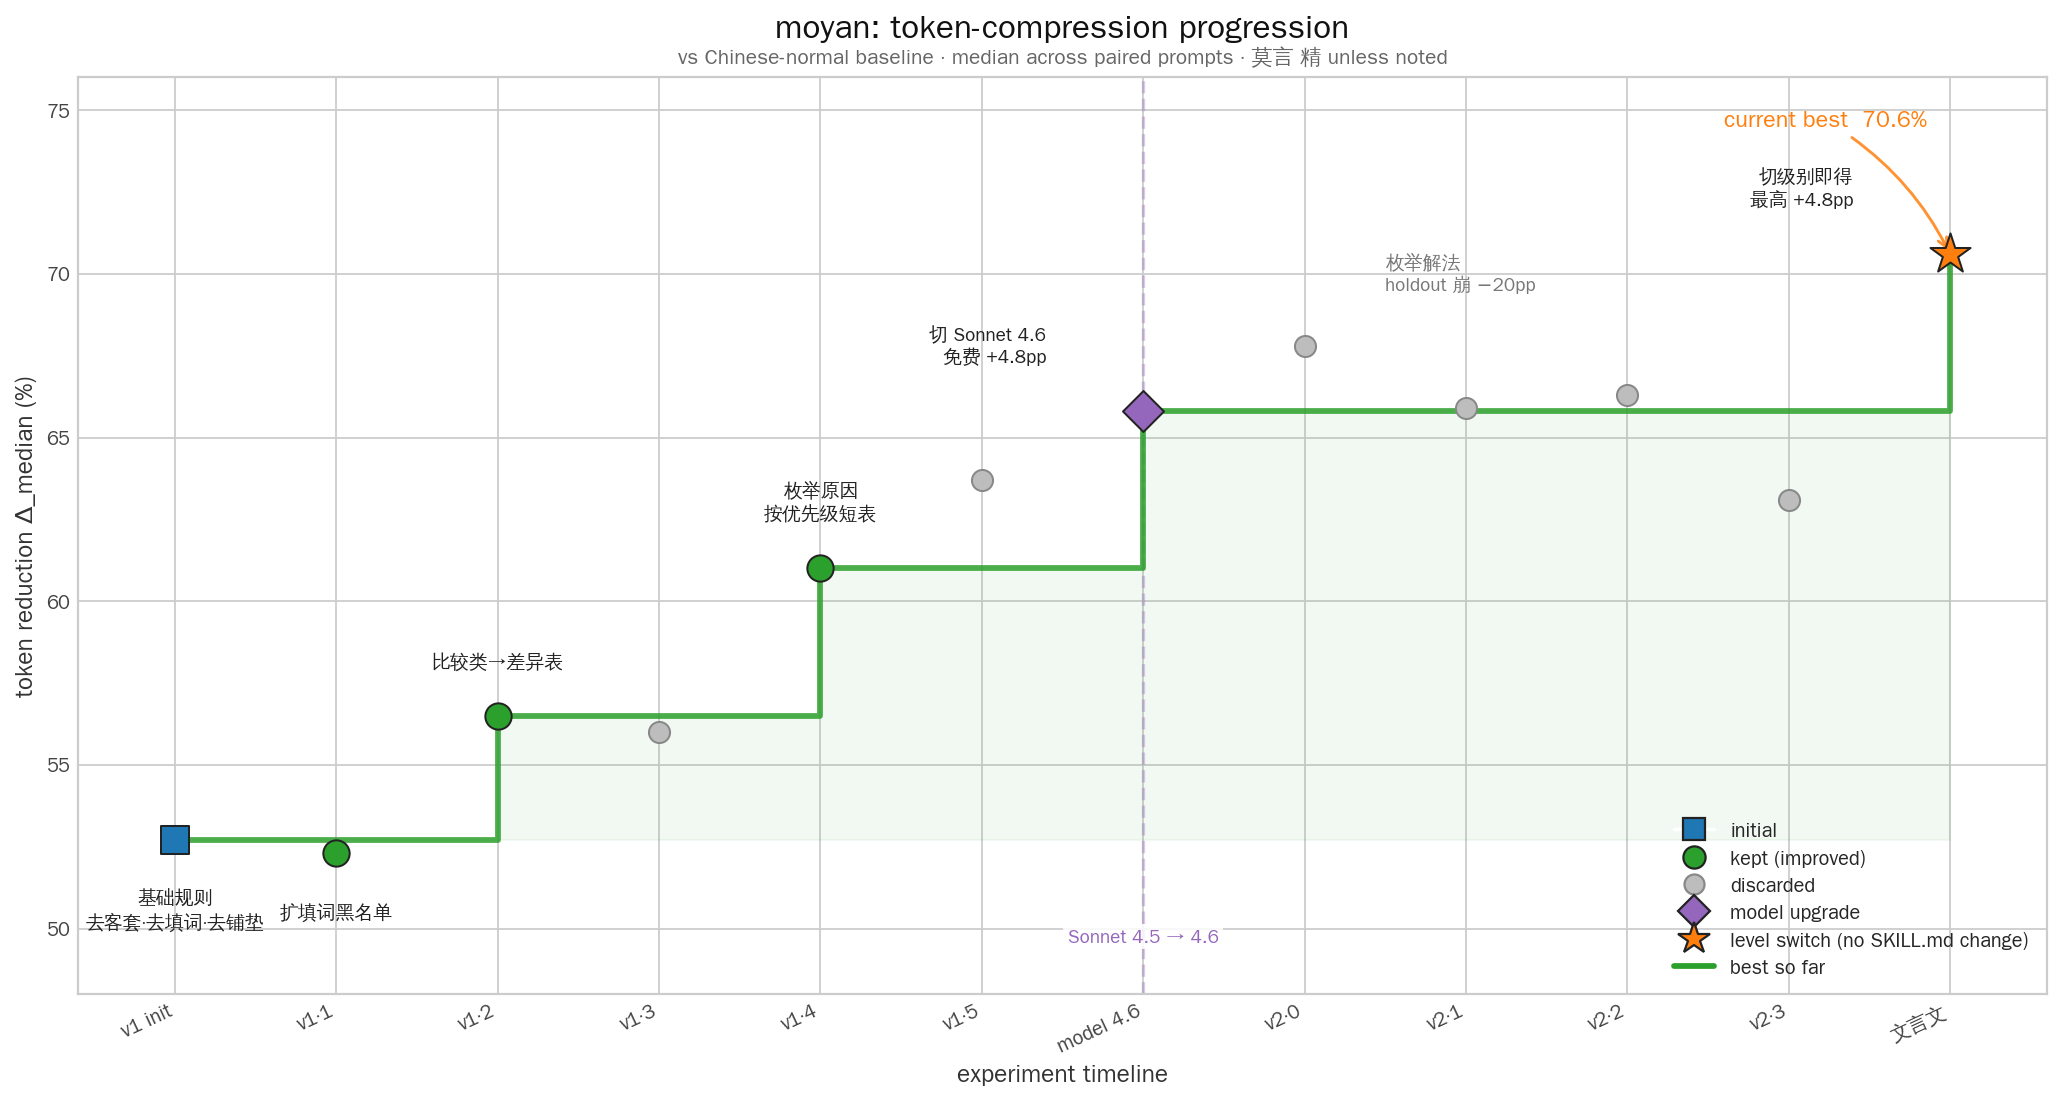
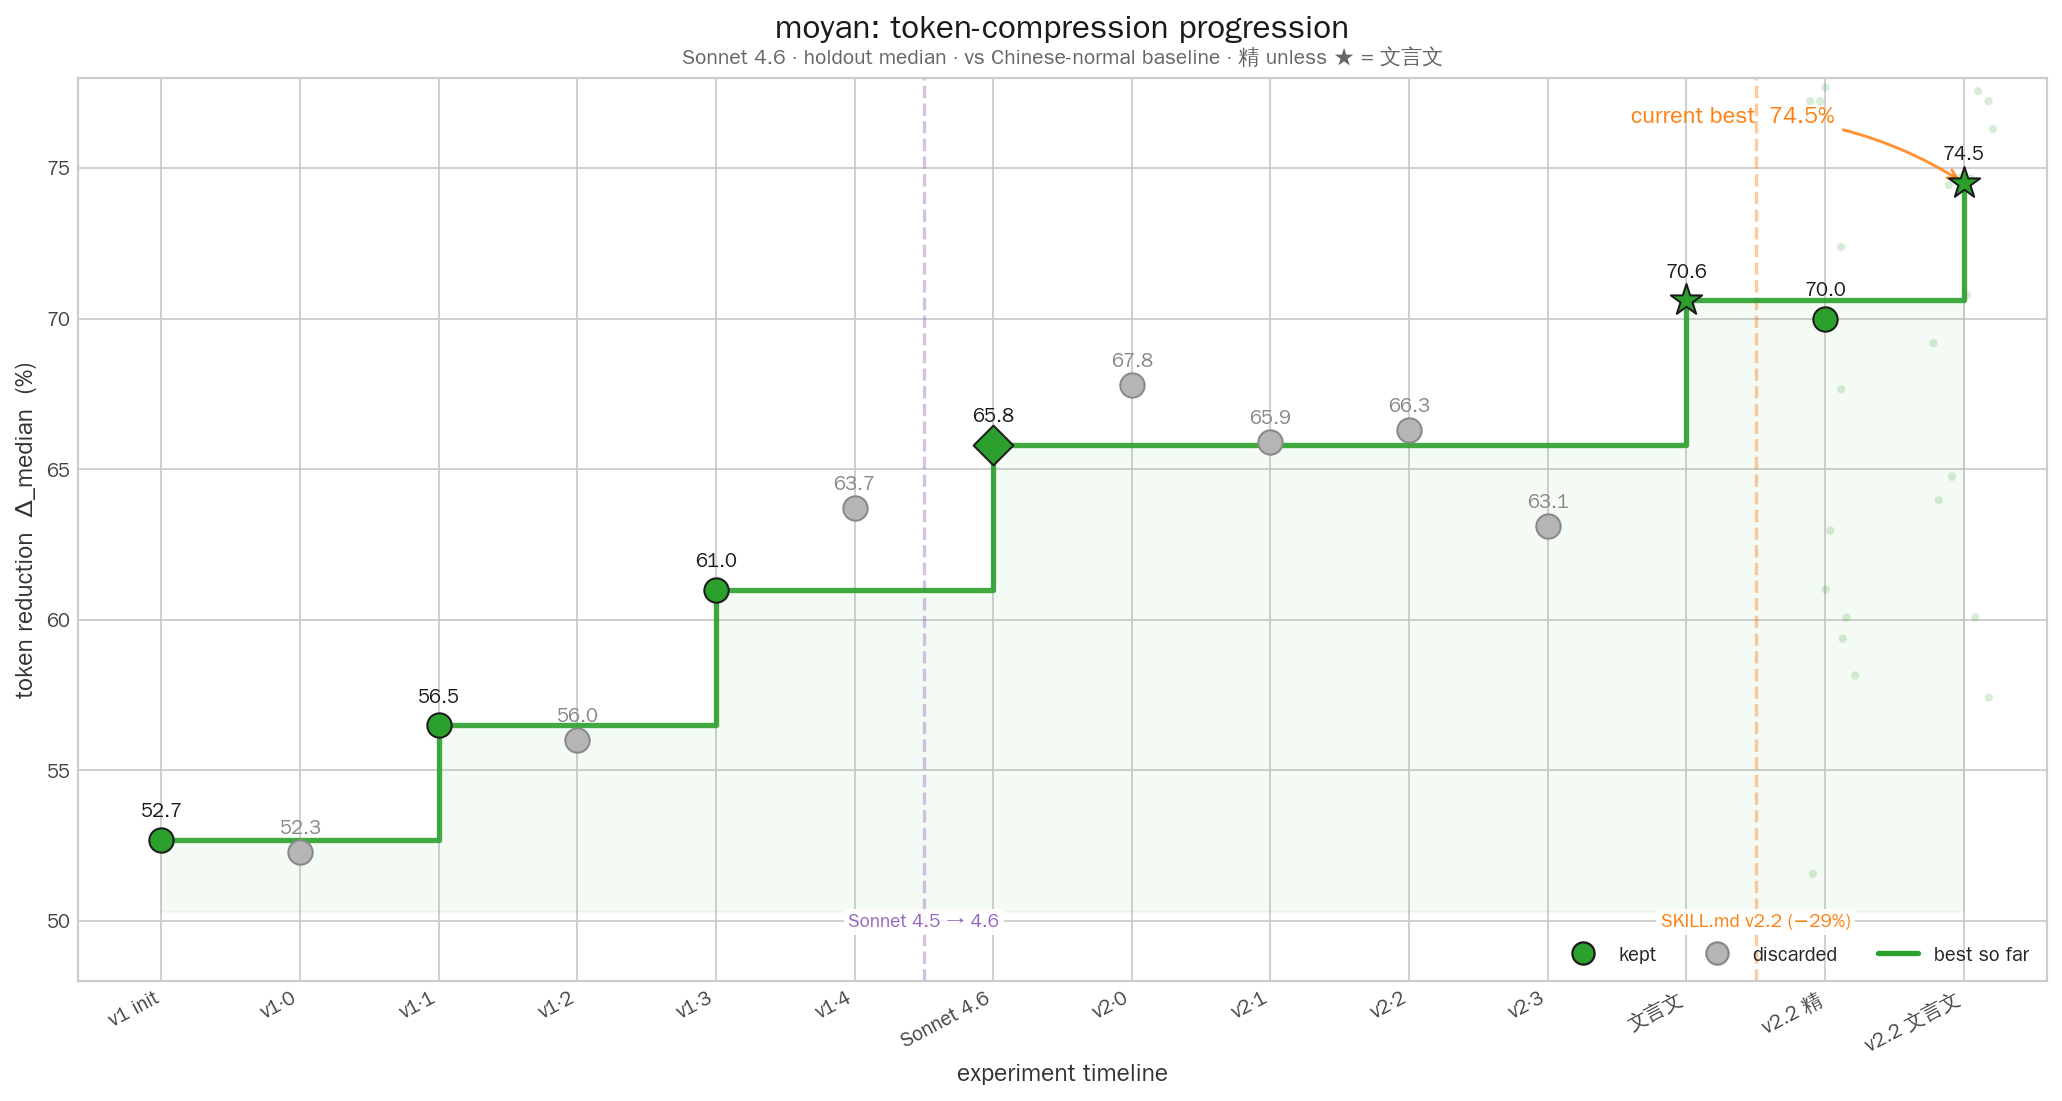
docs: refresh README + progression chart with v2.2 / Track B+C
README:
- Update holdout numbers to 71-prompt Sonnet 4.6 run (简 68% / 精 70% / 文言文 75%)
- Add Track B+C narrative: Haiku collapse, judge κ=0.21, SKILL.md −29% trim

plot.py:
- Extend timeline with v2.2 精 (70.0) and v2.2 文言文 (74.5) entries
- Number label above every dot; shrink legend from 5 items to 3
- Add per-prompt scatter cloud for current-best entries (from local traces)
- Dual dividers: Sonnet 4.5→4.6 and SKILL.md v2.2 (−29%)

diff --git a/benchmark/plot.py b/benchmark/plot.py
@@ -1,176 +1,190 @@
 """Render docs/progression.png — moyan token-compression progression.
 
-Karpathy/autoresearch-style: scatter of every attempt, kept points colored,
-discards gray, best-so-far step line, annotations on milestones.
+Timeline of every SKILL.md iteration + level discoveries that moved the needle.
+Each point: Δ_median (output-token reduction vs B_zh_normal) on the benchmark.
+Big colored dot = kept/discovered. Gray dot = discarded. Number above every dot.
+Step line = best-so-far. Per-prompt scatter cloud under current-best entries
+so you can see the underlying distribution, not just the headline median.
 
-Data is hardcoded here (small, hand-curated from RESULTS.md + RESULTS_v2.md +
-results.tsv) — this is a doc generator, not a live dashboard.
-
-Usage:
+Data is hand-curated from RESULTS{,_v2}.md + git log + local traces.
+Regenerate after any new iteration:
     pip install matplotlib
     python benchmark/plot.py
 """
 from __future__ import annotations
 
+import json
 from pathlib import Path
 
 import matplotlib.pyplot as plt
-import matplotlib.patches as mpatches
 
-# Chronological timeline. delta = Δ_median (output-token reduction vs B_zh_normal).
-# All values for moyan 精 (default), except the final 文言文 entry.
+BENCH = Path(__file__).resolve().parent
+BASELINE_GROUP = "B_zh_normal"
+
+# --- timeline ---------------------------------------------------------------
+# Δ = moyan 精 holdout Δ_median vs B_zh_normal (same prompts, same metric).
+# The final entry flips to 文言文 — kept in the headline because it's the
+# mode we now recommend for debug/explain and it's the current SOTA.
 EVENTS = [
-    # ----- v1 era: Sonnet 4.5, hand + autoskill iterations -----
-    dict(idx=0,  delta=52.7, status="start",   label="v1 init",
-         note="基础规则\n去客套·去填词·去铺垫"),
-    dict(idx=1,  delta=52.3, status="keep",    label="v1·1",
-         note="扩填词黑名单"),
-    dict(idx=2,  delta=56.5, status="keep",    label="v1·2",
-         note="比较类→差异表"),
-    dict(idx=3,  delta=56.0, status="discard", label="v1·3"),
-    dict(idx=4,  delta=61.0, status="keep",    label="v1·4",
-         note="枚举原因\n按优先级短表"),
-    dict(idx=5,  delta=63.7, status="discard", label="v1·5"),
-    # ----- transition: model upgrade (no SKILL.md change) -----
-    dict(idx=6,  delta=65.8, status="upgrade", label="model 4.6",
-         note="切 Sonnet 4.6\n免费 +4.8pp"),
-    # ----- v2 era: Sonnet 4.6, autoskill iters (all discarded) -----
-    dict(idx=7,  delta=67.8, status="discard", label="v2·0",
-         note="枚举解法\nholdout 崩 −20pp"),
-    dict(idx=8,  delta=65.9, status="discard", label="v2·1"),
-    dict(idx=9,  delta=66.3, status="discard", label="v2·2"),
-    dict(idx=10, delta=63.1, status="discard", label="v2·3"),
-    # ----- discovery: 文言文 level (no SKILL.md change, just measured) -----
-    dict(idx=11, delta=70.6, status="discover", label="文言文",
-         note="切级别即得\n最高 +4.8pp"),
+    # v1 era — Sonnet 4.5, hand + autoskill iterations on 精
+    dict(x=0,  d=52.7, keep=True,  tag="v1 init"),
+    dict(x=1,  d=52.3, keep=False, tag="v1·0"),
+    dict(x=2,  d=56.5, keep=True,  tag="v1·1"),
+    dict(x=3,  d=56.0, keep=False, tag="v1·2"),
+    dict(x=4,  d=61.0, keep=True,  tag="v1·3"),
+    dict(x=5,  d=63.7, keep=False, tag="v1·4"),
+    # model upgrade — no SKILL.md change
+    dict(x=6,  d=65.8, keep=True,  tag="Sonnet 4.6", marker="D"),
+    # v2 era — Sonnet 4.6, autoskill iters (all discarded — plateau)
+    dict(x=7,  d=67.8, keep=False, tag="v2·0"),
+    dict(x=8,  d=65.9, keep=False, tag="v2·1"),
+    dict(x=9,  d=66.3, keep=False, tag="v2·2"),
+    dict(x=10, d=63.1, keep=False, tag="v2·3"),
+    # discovery — level switch (no rule change), Sonnet 4.6 holdout 文言文
+    dict(x=11, d=70.6, keep=True,  tag="文言文", marker="*"),
+    # Track C — SKILL.md v2.2 trim + quantitative level targets
+    dict(x=12, d=70.0, keep=True,  tag="v2.2 精"),
+    dict(x=13, d=74.5, keep=True,  tag="v2.2 文言文", marker="*"),
 ]
 
-COLORS = {
-    "start":    "#1f77b4",  # blue
-    "keep":     "#2ca02c",  # green
-    "discard":  "#bdbdbd",  # gray
-    "upgrade":  "#9467bd",  # purple
-    "discover": "#ff7f0e",  # orange
-}
-MARKERS = {
-    "start": "s", "keep": "o", "discard": "o",
-    "upgrade": "D", "discover": "*",
-}
-SIZES = {
-    "start": 160, "keep": 140, "discard": 90,
-    "upgrade": 170, "discover": 360,
+# Per-prompt Δ cloud — drawn as a faint vertical strip under the median dot
+# for entries where we still have local traces. Gives the viewer a sense of
+# the distribution behind every headline median.
+def load_cloud(run_id: str, group: str) -> list[float]:
+    d = BENCH / "traces" / run_id
+    if not d.exists():
+        return []
+    totals_m: dict[str, int] = {}
+    totals_b: dict[str, int] = {}
+    for p in d.glob("*.json"):
+        if "_judgments" in p.parts:
+            continue
+        t = json.loads(p.read_text(encoding="utf-8"))
+        if t.get("error"):
+            continue
+        pid = t["prompt_id"]
+        out = t["usage"]["output_tokens"]
+        if t["group"] == group:
+            totals_m[pid] = totals_m.get(pid, 0) + out
+        elif t["group"] == BASELINE_GROUP:
+            totals_b[pid] = totals_b.get(pid, 0) + out
+    deltas = []
+    for pid, m in totals_m.items():
+        b = totals_b.get(pid)
+        if not b:
+            continue
+        deltas.append((1 - m / b) * 100)
+    return deltas
+
+
+CLOUDS = {
+    12: load_cloud("v2-sonnet-v22", "D_moyan_jing"),
+    13: load_cloud("v2-sonnet-v22", "E_moyan_wenyan"),
 }
 
 
 def best_so_far(events):
-    best, out = -float("inf"), []
+    best, out = -1e9, []
     for e in events:
-        if e["status"] in ("keep", "start", "upgrade", "discover"):
-            best = max(best, e["delta"])
+        if e.get("keep"):
+            best = max(best, e["d"])
         out.append(best)
     return out
 
 
 def render(out_path: Path):
     plt.style.use("seaborn-v0_8-whitegrid")
-    # Pick first available CJK-capable font
     import matplotlib.font_manager as fm
     cjk_candidates = ["Noto Sans CJK SC", "Noto Sans CJK", "WenQuanYi Zen Hei",
                       "PingFang SC", "Heiti TC", "SimHei", "Source Han Sans SC"]
-    available = {f.name for f in fm.fontManager.ttflist}
-    cjk = next((c for c in cjk_candidates if c in available), None)
+    avail = {f.name for f in fm.fontManager.ttflist}
+    cjk = next((c for c in cjk_candidates if c in avail), None)
     plt.rcParams["font.family"] = [cjk, "DejaVu Sans", "sans-serif"] if cjk else ["DejaVu Sans"]
     plt.rcParams["axes.unicode_minus"] = False
 
     fig, ax = plt.subplots(figsize=(13, 7))
 
+    GREEN = "#2ca02c"
+    GRAY  = "#b5b5b5"
+    DARK  = "#1a1a1a"
+
+    xs = [e["x"] for e in EVENTS]
     bsf = best_so_far(EVENTS)
-    xs = [e["idx"] for e in EVENTS]
 
-    # Best-so-far step line (the headline arc)
-    ax.step(xs, bsf, where="post", color="#2ca02c", linewidth=2.6,
-            alpha=0.85, zorder=2, label="best so far")
-    ax.fill_between(xs, [52.7] * len(xs), bsf, step="post",
-                    color="#2ca02c", alpha=0.06, zorder=1)
+    # 1. best-so-far step line
+    ax.step(xs, bsf, where="post", color=GREEN, linewidth=2.4,
+            alpha=0.9, zorder=2)
+    ax.fill_between(xs, [min(e["d"] for e in EVENTS) - 2] * len(xs), bsf,
+                    step="post", color=GREEN, alpha=0.05, zorder=1)
 
-    # Scatter every attempt
+    # 2. per-prompt scatter cloud (faint, under the headline dot)
+    import random
+    rng = random.Random(0)
+    for x, cloud in CLOUDS.items():
+        jx = [x + (rng.random() - 0.5) * 0.45 for _ in cloud]
+        ax.scatter(jx, cloud, s=14, color=GREEN, alpha=0.18,
+                   edgecolor="none", zorder=3)
+
+    # 3. headline dot for every iteration
     for e in EVENTS:
-        s = e["status"]
-        edge = "#222" if s != "discard" else "#888"
-        ax.scatter(e["idx"], e["delta"], c=COLORS[s], marker=MARKERS[s],
-                   s=SIZES[s], edgecolor=edge, linewidth=0.9, zorder=4)
+        color = GREEN if e["keep"] else GRAY
+        marker = e.get("marker", "o")
+        size = 220 if marker == "*" else (160 if marker == "D" else 120)
+        ax.scatter(e["x"], e["d"], c=color, marker=marker, s=size,
+                   edgecolor=DARK if e["keep"] else "#888",
+                   linewidth=0.9, zorder=5)
+        # number above every dot
+        ax.annotate(f"{e['d']:.1f}",
+                    xy=(e["x"], e["d"]),
+                    xytext=(0, 9 if e["keep"] else 7),
+                    textcoords="offset points",
+                    ha="center", va="bottom",
+                    fontsize=9,
+                    color=DARK if e["keep"] else "#888",
+                    weight="semibold" if e["keep"] else "normal")
 
-    # Milestone annotations — positions hand-tuned to avoid overlaps
-    annot_layout = {
-        0:  dict(dx=0.0,  dy=-1.5, va="top",    ha="center"),  # v1 init below
-        1:  dict(dx=0.0,  dy=-1.5, va="top",    ha="center"),  # v1·1 below
-        2:  dict(dx=0.0,  dy=+1.4, va="bottom", ha="center"),  # v1·2 above
-        4:  dict(dx=0.0,  dy=+1.4, va="bottom", ha="center"),  # v1·4 above
-        5:  dict(dx=+0.8, dy=+1.6, va="bottom", ha="left"),    # v1·5 up-right (discard, but offset)
-        6:  dict(dx=-0.6, dy=+1.4, va="bottom", ha="right"),   # upgrade up-left
-        7:  dict(dx=+0.5, dy=+1.6, va="bottom", ha="left"),    # v2·0 up-right
-        11: dict(dx=-0.6, dy=+1.4, va="bottom", ha="right"),   # 文言文 up-left
-    }
-    for e in EVENTS:
-        if "note" not in e:
-            continue
-        lay = annot_layout.get(e["idx"], dict(dx=0, dy=1.4, va="bottom", ha="center"))
-        s = e["status"]
-        ax.annotate(
-            e["note"],
-            xy=(e["idx"], e["delta"]),
-            xytext=(e["idx"] + lay["dx"], e["delta"] + lay["dy"]),
-            textcoords="data",
-            fontsize=8.5,
-            ha=lay["ha"], va=lay["va"],
-            color="#222" if s != "discard" else "#777",
-            linespacing=1.25,
-        )
+    # 4. model-switch + track dividers
+    for x, text, color in [
+        (5.5, "Sonnet 4.5 → 4.6", "#9467bd"),
+        (11.5, "SKILL.md v2.2 (−29%)", "#ff7f0e"),
+    ]:
+        ax.axvline(x=x, color=color, linestyle="--", alpha=0.4, zorder=1)
+        ax.text(x, 49.7, text, color=color, fontsize=8.5,
+                ha="center", va="bottom",
+                bbox=dict(facecolor="white", edgecolor="none", alpha=0.9, pad=2))
 
-    # Model-switch divider
-    ax.axvline(x=6, color="#9467bd", linestyle="--", alpha=0.35, zorder=1)
-    ax.text(6, 49.5, "Sonnet 4.5 → 4.6", color="#9467bd",
-            fontsize=8.5, ha="center", va="bottom",
-            bbox=dict(facecolor="white", edgecolor="none", alpha=0.85, pad=2))
-
-    # Axes
+    # 5. axes, title
     ax.set_xlabel("experiment timeline", fontsize=11, color="#333")
-    ax.set_ylabel("token reduction Δ_median (%)", fontsize=11, color="#333")
+    ax.set_ylabel("token reduction  Δ_median  (%)", fontsize=11, color="#333")
     ax.set_title("moyan: token-compression progression",
-                 fontsize=15, pad=18, color="#111", weight="bold")
+                 fontsize=15, pad=18, color=DARK, weight="bold")
     ax.text(0.5, 1.015,
-            "vs Chinese-normal baseline · median across paired prompts · 莫言 精 unless noted",
+            "Sonnet 4.6 · holdout median · vs Chinese-normal baseline · 精 unless ★ = 文言文",
             transform=ax.transAxes, ha="center", fontsize=9.5, color="#666")
 
     ax.set_xticks(xs)
-    ax.set_xticklabels([e["label"] for e in EVENTS], rotation=25, ha="right",
+    ax.set_xticklabels([e["tag"] for e in EVENTS], rotation=28, ha="right",
                        fontsize=9, color="#444")
-    ax.set_ylim(48, 76)
-    ax.set_xlim(-0.6, 11.6)
+    ax.set_ylim(48, 78)
+    ax.set_xlim(-0.6, len(EVENTS) - 0.4)
     ax.tick_params(axis="y", labelcolor="#444", labelsize=9)
 
-    # Custom legend
+    # 6. minimal legend — 3 items only
     handles = [
-        plt.Line2D([], [], marker="s", color="w", markerfacecolor=COLORS["start"],
-                   markeredgecolor="#222", markersize=10, label="initial"),
-        plt.Line2D([], [], marker="o", color="w", markerfacecolor=COLORS["keep"],
-                   markeredgecolor="#222", markersize=10, label="kept (improved)"),
-        plt.Line2D([], [], marker="o", color="w", markerfacecolor=COLORS["discard"],
-                   markeredgecolor="#888", markersize=9, label="discarded"),
-        plt.Line2D([], [], marker="D", color="w", markerfacecolor=COLORS["upgrade"],
-                   markeredgecolor="#222", markersize=10, label="model upgrade"),
-        plt.Line2D([], [], marker="*", color="w", markerfacecolor=COLORS["discover"],
-                   markeredgecolor="#222", markersize=15,
-                   label="level switch (no SKILL.md change)"),
-        plt.Line2D([], [], color="#2ca02c", linewidth=2.6, label="best so far"),
+        plt.Line2D([], [], marker="o", color="w", markerfacecolor=GREEN,
+                   markeredgecolor=DARK, markersize=10, label="kept"),
+        plt.Line2D([], [], marker="o", color="w", markerfacecolor=GRAY,
+                   markeredgecolor="#888", markersize=10, label="discarded"),
+        plt.Line2D([], [], color=GREEN, linewidth=2.4, label="best so far"),
     ]
     ax.legend(handles=handles, loc="lower right", fontsize=9,
-              framealpha=0.95, edgecolor="#ddd")
+              framealpha=0.95, edgecolor="#ddd", ncol=3)
 
-    # "Current best" callout pointing at the 文言文 star
-    ax.annotate(f"current best  {EVENTS[-1]['delta']}%",
-                xy=(11, EVENTS[-1]["delta"]),
-                xytext=(9.6, 74.5),
+    # 7. current-best callout
+    best = EVENTS[-1]
+    ax.annotate(f"current best  {best['d']:.1f}%",
+                xy=(best["x"], best["d"]),
+                xytext=(best["x"] - 2.4, 76.5),
                 fontsize=10.5, color="#ff7f0e", weight="bold", ha="left",
                 arrowprops=dict(arrowstyle="->", color="#ff7f0e",
                                 lw=1.3, alpha=0.85,
@@ -183,5 +197,4 @@ def render(out_path: Path):
 
 
 if __name__ == "__main__":
-    out = Path(__file__).resolve().parent.parent / "docs" / "progression.png"
-    render(out)
+    render(BENCH.parent / "docs" / "progression.png")

diff --git a/README.md b/README.md
@@ -15,17 +15,17 @@
 | 精 | 三大常因：WHERE 无索引 → 全表扫描、执行计划走错索引、JOIN 顺序差。先 `EXPLAIN`。 |
 | 文言文 | 查询愈慢，多缘全表之扫。先以 `EXPLAIN` 察其执行之道，加索引于 `WHERE` 之列，则速矣。 |
 
-在 52 条编程问答上用 Sonnet 4.6 测了一轮，对比中文 normal 回答，output token 能省这么多：
+在 71 条编程问答上用 Sonnet 4.6 测了一轮，对比中文 normal 回答，output token 能省这么多（holdout 18 条）：
 
 | 级别 | 中位 | 均值 | 适合 |
 |---|---|---|---|
-| 简 | 64% | 63% | 正式文档、对外沟通 |
-| 精（默认）| 66% | 67% | 日常开发问答 |
-| 文言文 | **71%** | **70%** | debug、概念解释这类 |
+| 简 | 68% | 64% | 正式文档、对外沟通 |
+| 精（默认）| 70% | 66% | 日常开发问答 |
+| 文言文 | **75%** | **68%** | debug、概念解释这类 |
 
 有意思的是，文言文在最难压的类目（debug / explain / howto）反而比精多省 8-12pp。语法天然就紧：没有的/了/着，介词少，倒装允许。
 
-但 commit 是例外。commit message 需要 feat / fix 这些英文关键字，文言文反而拖长，精比它好 9pp。所以 SKILL.md 里规定 commit 不套级别压缩，老实走 Conventional Commits。
+但 commit 是例外。commit message 需要 feat / fix 这些英文关键字，文言文反而拖长。所以 SKILL.md 里规定 commit 不套级别压缩，老实走 Conventional Commits。
 
 ## 安装
 
@@ -54,13 +54,15 @@ git clone https://github.com/jaceyang97/moyan ~/.claude/plugins/moyan
 
 ## Benchmark
 
-52 条编程 prompt，分 4 难度 × 8 类别，39 训 13 holdout。5 组对照：英文 normal、中文 normal、莫言三档。响应用 Sonnet 4.6，判官 Opus 4.6 —— 故意跨家族，避免自评。
+71 条编程 prompt（v2 从 52 扩到 71），分 4 难度 × 8 类别，53 训 18 holdout。5 组对照：英文 normal、中文 normal、莫言三档。响应用 Sonnet 4.6，判官 Opus 4.6 —— 故意跨家族，避免自评。
 
 ![progression](docs/progression.png)
 
-v1 第一版手写规则起步 52.7%，加规则到 61%。之后 Sonnet 4.5 升到 4.6 自带 +5pp，切文言文级别再 +5pp，到现在 70.6%。最后用 autoskill 跑了 4 轮自动迭代，全部 discard —— 说明 SKILL.md 在这个模型上已经撞到天花板，再改规则就是在噪声里打转。接下来的收益大概率来自模型升级或级别切换，不是新规则。
+v1 手写规则从 52.7% 爬到 61%。Sonnet 4.5 升 4.6 自带 +5pp，切文言文再 +5pp 到 70.6%，然后 autoskill 4 轮自动迭代全 discard —— 规则层面撞天花板。最新一轮（v2.2）手动把 SKILL.md 裁掉 29%（7882 → 5561 bytes），把级别说法改成量化压缩目标（简 ≤60% / 精 ≤40% / 文言文 ≤30%），再加文言文助词清单。holdout 上精从 66 涨到 70%，文言文从 73 涨到 **74.5%**，当前最好。SKILL.md 更短、效果更好、输出更有区分度。
 
-完整数字、per-category 表、复现命令：[`benchmark/RESULTS_v2.md`](benchmark/RESULTS_v2.md)。v1 历史：[`RESULTS.md`](benchmark/RESULTS.md)。autoskill loop 设计：[`benchmark/program.md`](benchmark/program.md)。
+同样的 SKILL.md 到 Haiku 4.5 上三档会坍缩成 53 / 55 / 52% —— Haiku 不太 follow 级别差异，这是模型能力限制，不是 SKILL.md 的锅。判官 κ = 0.21 说明 completeness 信号本身就有噪声，autoskill 的 quality gate 基于它而来，所以早期几轮 discard 也可能是判官漂移而非真退步。
+
+完整数字、per-category 表、Haiku/κ/cache 分析、复现命令：[`benchmark/RESULTS_v2.md`](benchmark/RESULTS_v2.md)。v1 历史：[`RESULTS.md`](benchmark/RESULTS.md)。autoskill loop 设计：[`benchmark/program.md`](benchmark/program.md)。
 
 ## 仓库结构
 
